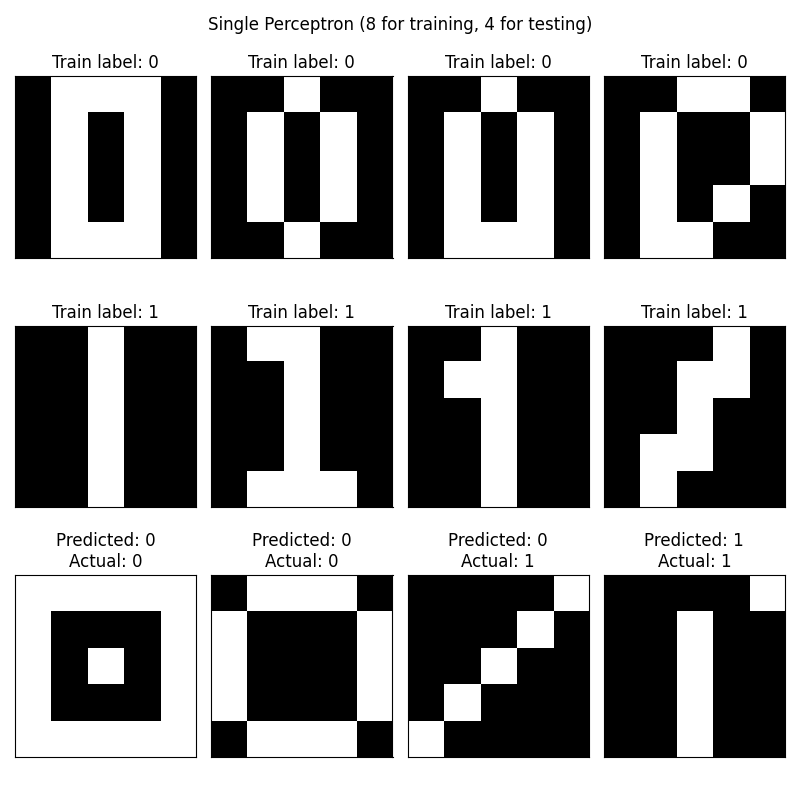
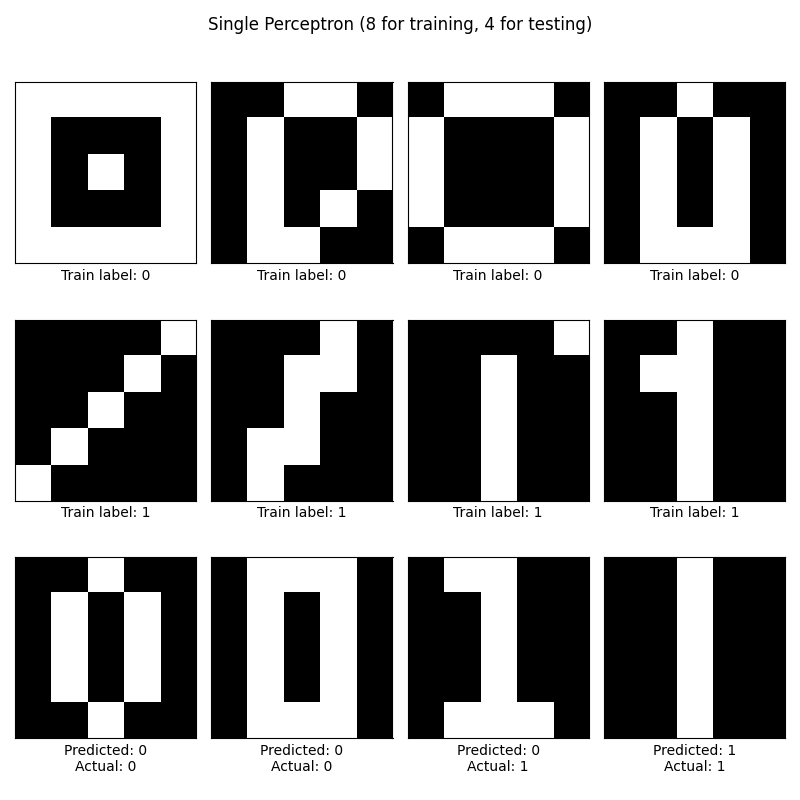
update label

Changed region(s): [[0.0, 0.5312, 1.0, 0.9688], [0.0, 0.0625, 1.0, 0.5], [0.6875, 0.4062, 0.75, 0.4688]]

diff --git a/main.py b/main.py
@@ -67,11 +67,11 @@ if __name__ == '__main__':
         axes[0, i].imshow(train_data_set[i].reshape((5, 5)), cmap='gray')
         axes[0, i].set_xticks([])
         axes[0, i].set_yticks([])
-        axes[0, i].set_title(f"Train label: 0")
+        axes[0, i].set_xlabel(f"Train label: 0")
         axes[1, i].imshow(train_data_set[i + 4].reshape((5, 5)), cmap='gray')
         axes[1, i].set_xticks([])
         axes[1, i].set_yticks([])
-        axes[1, i].set_title(f"Train label: 1")
+        axes[1, i].set_xlabel(f"Train label: 1")
 
     for i in range(len(test_data_set)):
         response = test_data_set[i]  @ weight_array + b
@@ -84,7 +84,7 @@ if __name__ == '__main__':
 
         actual = 0 if test_labels[i] == -1 else 1
 
-        axes[2, i].set_title(f"Predicted: {predict}\nActual: {actual}")
+        axes[2, i].set_xlabel(f"Predicted: {predict}\nActual: {actual}")
 
     plt.suptitle(f"Single Perceptron (8 for training, 4 for testing)")
     plt.tight_layout()
